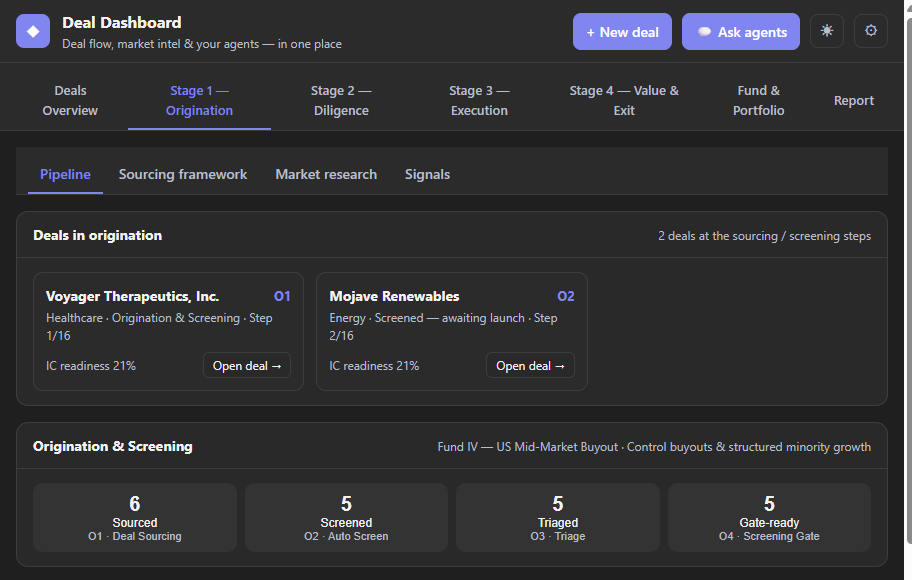
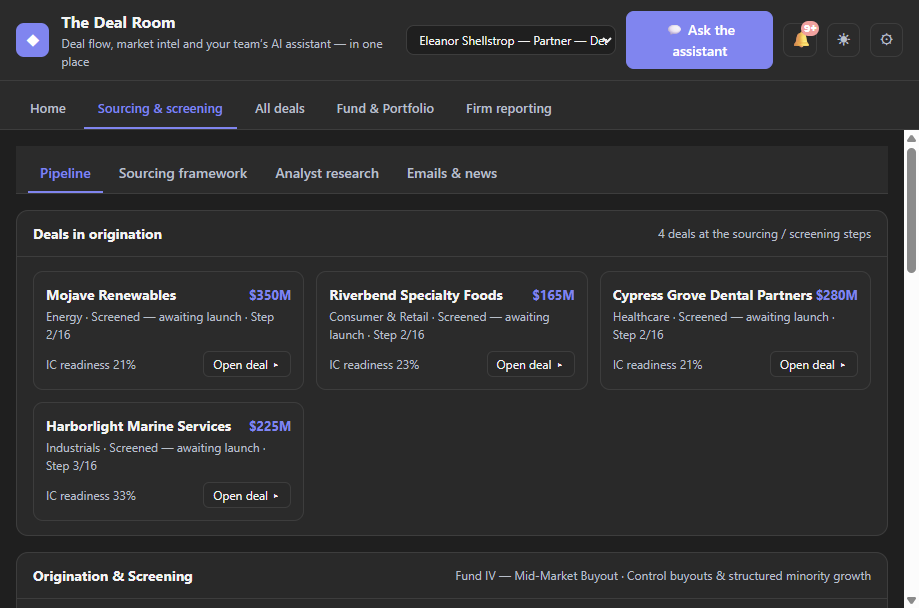
The screenshots showed a product we no longer ship
The front-page hero was captured on 27 July and had six top-level tabs, 16 live deals, and a deal reading 'IC in -1085d'. The README two screens below it says the product has five tabs, the record now carries 19 deals, and the negative-days bug was fixed weeks ago -- so the first thing a visitor saw contradicted the page it was on. All seven shots are recaptured from the current build at one viewport, driven through real seats: the partner's composed briefing with its evidence markers, the assistant answering a question it was actually asked, sourcing, a deal opening on where to start, and an analyst meeting the status-only wall on a deal outside their territory. Capturing the access shot surfaced a defect and it is fixed here: a status-only seat is not told the step, so the deal header printed an empty 'Step of'.

diff --git a/teams-app/tab/src/DealDetail.tsx b/teams-app/tab/src/DealDetail.tsx
@@ -856,7 +856,10 @@ export default function DealDetail({ dealId, canViewStage2, canWrite, agents, de
               <div className="dd-sub">{[deal.sector, deal.subSector, deal.hq].filter(Boolean).join(' · ')}</div>
               <div className="dd-meta">
                 <span className="chip">{deal.stageName || deal.stage}</span>
-                <span className="chip">Step {deal.stepNumber} of {deal.totalSteps} · {STEP_LABEL[deal.currentStep || ''] || deal.currentStep}</span>
+                {/* A status-only seat is not told the step, and the chip printed "Step of ·". */}
+                {deal.stepNumber != null && deal.totalSteps != null ? (
+                  <span className="chip">Step {deal.stepNumber} of {deal.totalSteps} · {STEP_LABEL[deal.currentStep || ''] || deal.currentStep}</span>
+                ) : null}
                 {/* Lumen Analytics is headquartered in Dublin and its diligence
                     documents quote euros, and this header printed a dollar sign with
                     nothing to say which currency the dollar sign meant. A partner

diff --git a/teams-app/docs/README.md b/teams-app/docs/README.md
@@ -1,35 +1,37 @@
 # Teams app screenshots
 
-The repo landing page ([../../README.md](../../README.md)) keeps **one** web-app
-screenshot (the hero) and showcases the rest **from Microsoft Teams**. The Teams
-shots below are captured from the **Teams channel-tab web UI** (`teams-app/tab`,
-served by the `ca-dealhub-teams` container) — a distinct interface from the full
-web app — so they show exactly what Teams renders.
+Captured from the **Teams channel-tab web UI** (`teams-app/tab`, served by the
+`ca-dealhub-teams` container), so they show exactly what Teams renders. The repo landing
+page ([../../README.md](../../README.md)) uses five of them; the last two are kept for the
+deeper docs.
 
-To refresh them, point a headless browser (e.g. Playwright/Chromium) at the tab
-URL, drive the views, and save PNGs over the files below (same names). The tab
-loads live deal data and exposes a **Demo — "view as"** role switcher, which is
-handy for the RBAC shot (switch to *Analyst — user5* and open a Stage-2 deal to
-get the "restricted to the deal team" lock).
-
-| File | Root README section | What it shows |
+| File | Where it's used | What it shows |
 |---|---|---|
-| `teams-agent-chat.png` | 🤖 Talk to your deals | The Deal Room agent answering a natural-language question, grounded in live deal data. |
-| `teams-dashboard.png` | 📊 The Teams dashboard | The channel-tab dashboard — KPIs, origination funnel, live pipeline deals. |
-| `teams-stage1.png` | 🗂 Stage 1 | Stage 1 — Origination & Screening (funnel + candidate pipeline). |
-| `teams-stage1-analytics.png` | 🗂 Stage 1 | Target deep-dive — SEC EDGAR filings + AI-generated analyst report (sector outlook, risks, recommendation). |
-| `teams-stage2.png` | 🗂 Stage 2 | Stage 2 — Diligence & Approval (deals in diligence). |
-| `teams-rbac.png` | 🔐 Identity-aware access | An Analyst blocked from a Stage-2 deal (role-gated lock). |
+| `teams-dashboard.png` | README hero | The Home desk — a partner's daily briefing, composed from the deal record, with a numbered evidence marker behind each claim. |
+| `teams-agent-chat.png` | 💬 An AI deal team you @mention | The assistant answering *“which deal is the highest priority right now, and why?”* beside the briefing. |
+| `teams-stage1.png` | 🗂 The whole lifecycle | Sourcing & screening — deals in origination, with the mandate and screening framework behind the sub-tabs. |
+| `teams-deal-cockpit.png` | 🧭 A Deal brief built for the deal team | A deal opening on *where to start*, the IC clock, and the five pages every deal has. |
+| `teams-rbac.png` | 🔐 Need-to-know access | An analyst on a deal they are not cleared for — status only, with *Ask to join the deal team*. |
+| `teams-stage2.png` | — | The **All deals** list: 19 deals segmented by stage, with the IC-ready ones called out. |
+| `teams-stage1-analytics.png` | — | A deal's **Analysis** page — the paper LBO, its returns against the hurdle, and the basis it was struck on. |
 
-## Capture tips
+## Refreshing them
 
-- Use a deal channel in the **Private Equity Deals** team so the bot resolves deal
-  context from the channel.
-- Prefer the **dark** Teams theme for a crisp look, and crop to the Teams content
-  pane (hide personal chat lists / unrelated tenant chrome).
-- Aim for ~1600px wide PNGs; keep them under a few hundred KB.
-- Avoid real personal data in view — the demo deals (Sound United, National
-  CineMedia, XBP Global, Allbirds) are ideal subjects.
+The **beta** tab is the one to shoot: it sets `DEMO_OPEN_SIGN_IN`, so a browser with no
+directory account can hold a demo seat. The dev tab does not, and will sit on
+*“Loading your deals…”* behind a 401.
 
-Once a PNG is added, uncomment its `![…](teams-app/docs/<file>.png)` line in the
-root README and it renders on the repo landing page.
+1. Open the tab with a seat named in the query string — the roster ids are `admin`,
+   `partner`, `deal-team`, `analyst`, `principal`, `fund-cfo`, `member`, …:
+
+   ```
+   https://<teams-beta-host>/?dr_as=partner#/overview
+   ```
+
+2. Dismiss the *“Now viewing as …”* access note (`.sbn-x`) — it is demo chrome, not product.
+3. Drive the view, then save a PNG over the file above, keeping the same name.
+
+Shoot every file at the **same viewport** so the set reads as one product (the current set
+is 919 × 608). For the access shot, pick a seat and a deal that genuinely collide —
+`?dr_as=analyst` on a deal outside their territory returns the real status-only view rather
+than a staged lock.

diff --git a/README.md b/README.md
@@ -11,7 +11,7 @@ live deal record, delivered by the right specialist, and scoped to who's asking.
 No new portal to adopt. No paid data feeds to demo. **One command** to stand it up in your own
 tenant.
 
-![The Deal Room console rendered inside Microsoft Teams](teams-app/docs/teams-dashboard.png)
+![The Deal Room console — a partner's daily briefing, composed from the deal record with the evidence behind every figure](teams-app/docs/teams-dashboard.png)
 
 <sub>*The same console runs **natively in Microsoft Teams** and as a **standalone web app**, over one shared deal record.*</sub>
 
@@ -91,7 +91,7 @@ answers from the right **specialist's** viewpoint (analyst, sector MDs, partner,
 > 💬 *summarise the latest diligence findings and open risks.*
 > 💬 *how does the retail MD read this opportunity?*
 
-![The conversational agent answering in the Teams interface — grounded in live deal data](teams-app/docs/teams-agent-chat.png)
+![The assistant answering “which deal is the highest priority right now, and why?” — grounded in the live deal record](teams-app/docs/teams-agent-chat.png)
 
 ### 📊 A dashboard native to your channel
 
@@ -146,7 +146,7 @@ and verdict moves, newly-blocking vs resolved items), a deterministic **next bes
 The whole surface is **decision-data-first** — market intelligence is supporting context, not the
 lead — and there's **one invisible assistant**, no exposed “bots.”
 
-![The deal brief — IC-readiness verdict, top blockers, provenance-tagged figures and the red/amber/green diligence workbench](teams-app/docs/teams-deal-cockpit.png)
+![A deal opens on where to start — the next action, the IC clock, and the five pages every deal has](teams-app/docs/teams-deal-cockpit.png)
 
 ### ✅ Propose → approve → apply, with a full audit trail
 
@@ -172,7 +172,7 @@ deals; **customizable deal-group tags** each **auto-create an Entra security gro
 sector pod or clean-team can be granted in one place; and each deal's **own access group** is the
 single control for its **Teams channel, SharePoint data room and workspace**.
 
-![Role-gated access in the Teams tab](teams-app/docs/teams-rbac.png)
+![A seat without need-to-know sees where the deal stands and nothing else](teams-app/docs/teams-rbac.png)
 
 > 🔎 **[The full access model — roles, need-to-know & demo mode →](docs/ACCESS-MODEL.md)**
 
